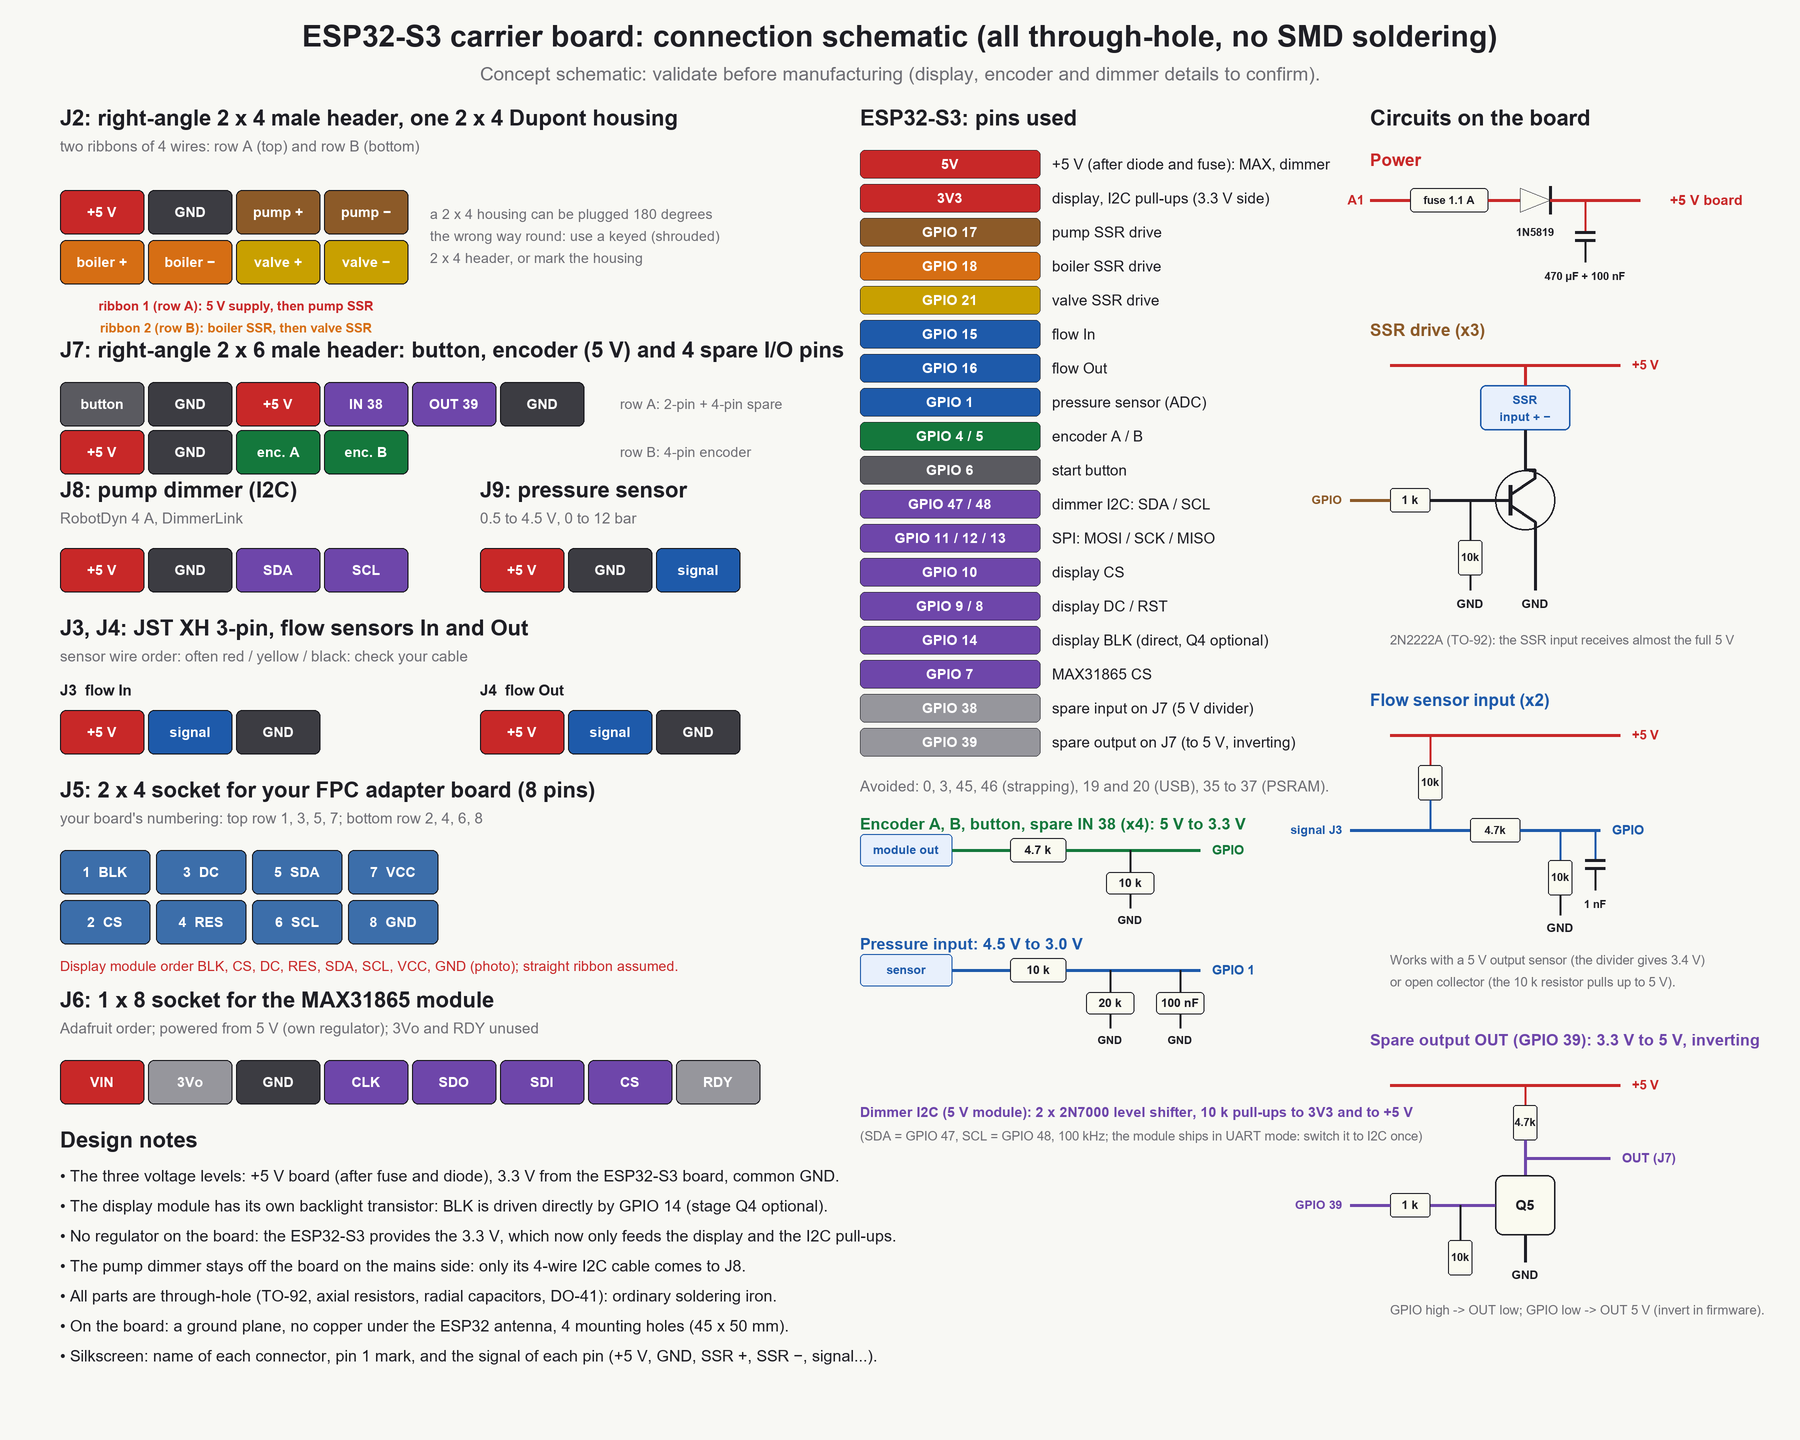
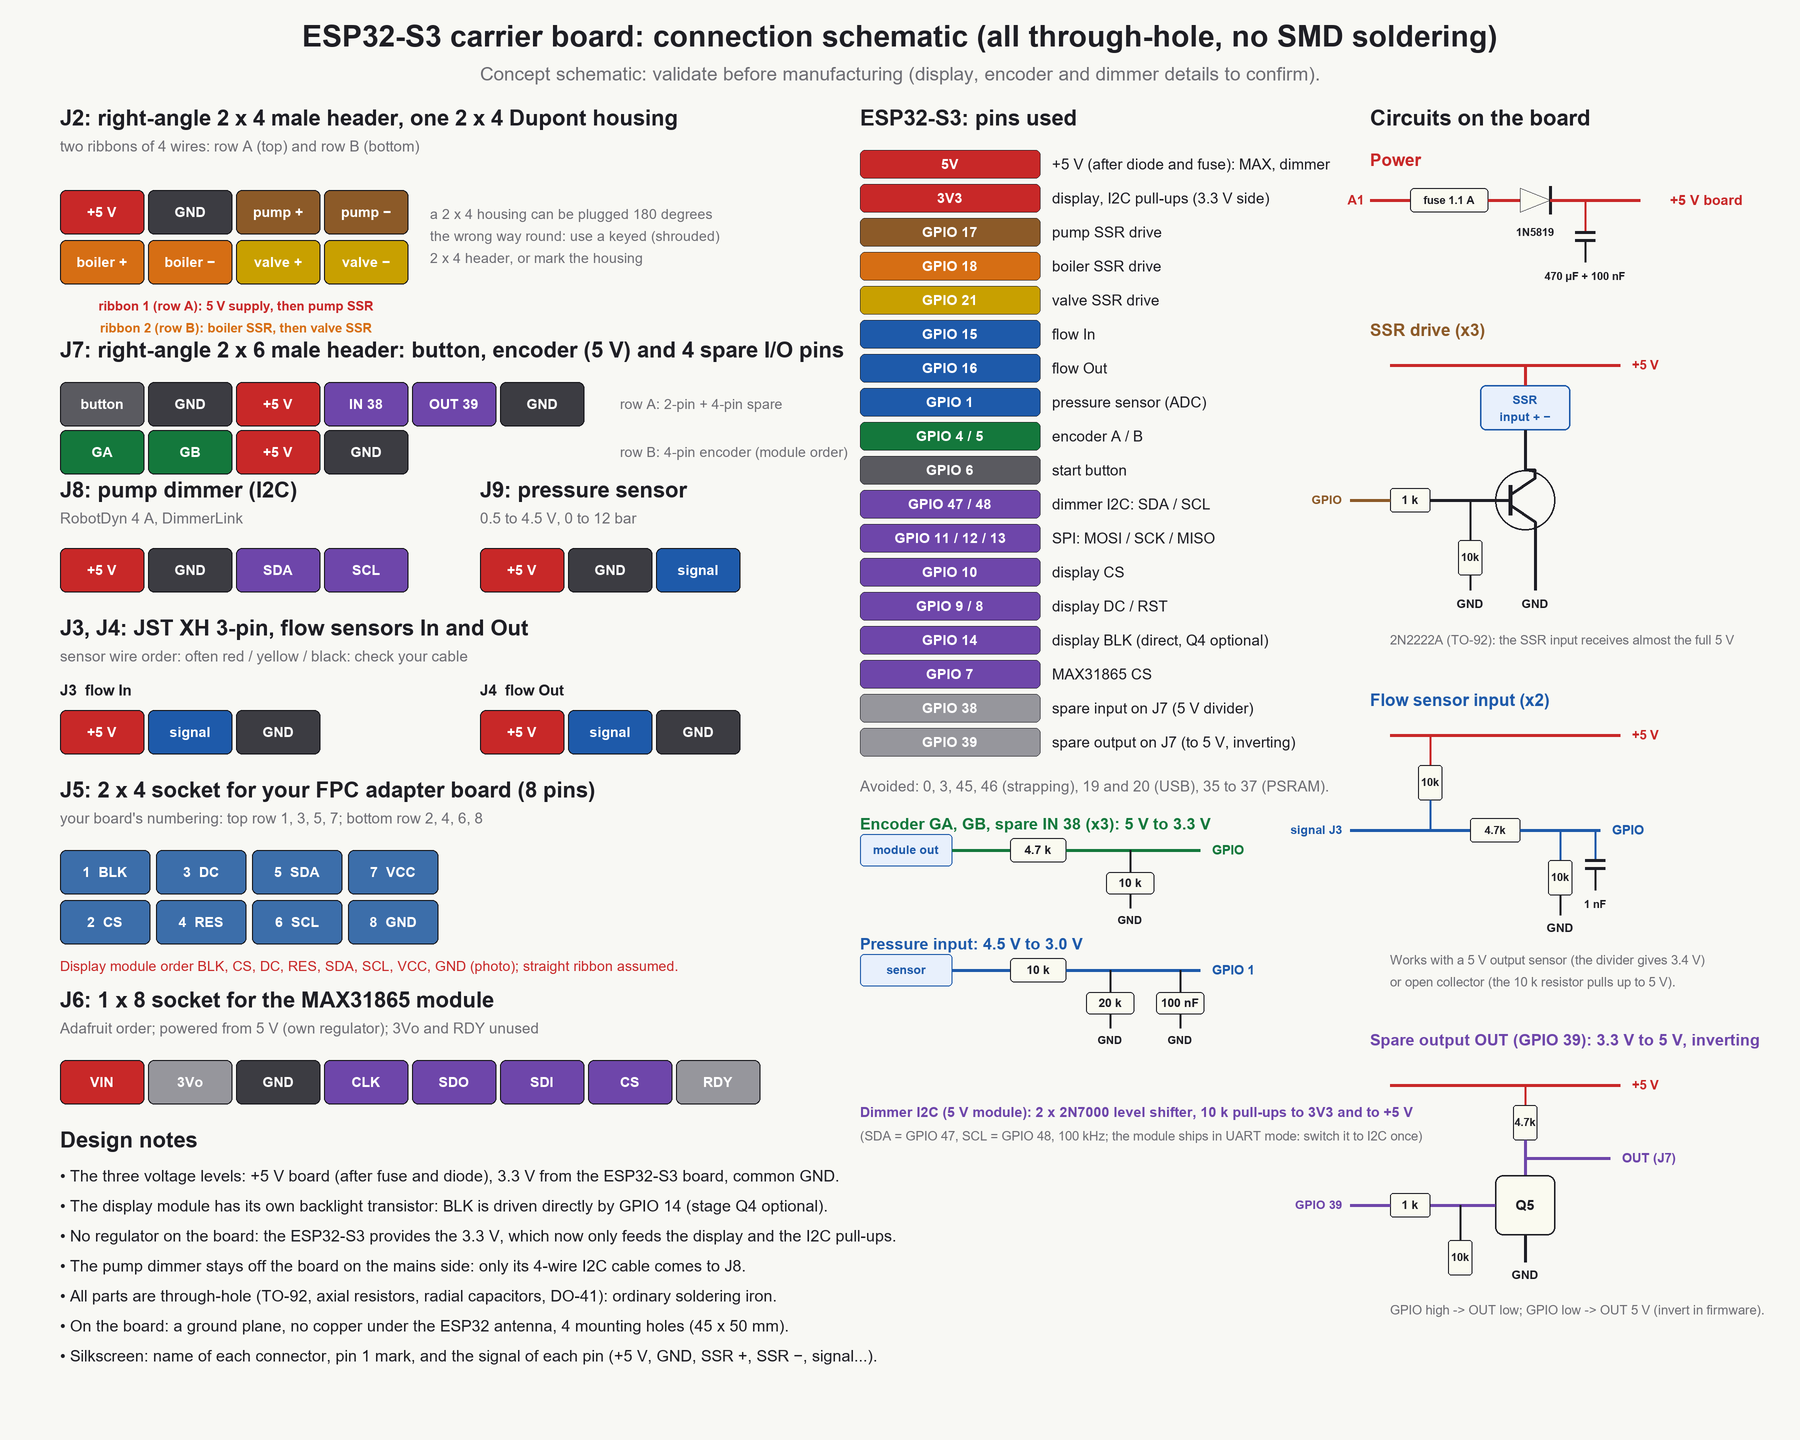
Encoder in the CJMCU-111 module order (GA, GB, VCC, GND), push carried by GA; start button needs no divider

Changed region(s): [[0.0311, 0.2812, 0.2489, 0.3438], [0.5289, 0.5625, 0.6844, 0.5938]]

diff --git a/tools/board_schematic.py b/tools/board_schematic.py
@@ -50,13 +50,13 @@ T(x0 + 370, 258, "2 x 4 header, or mark the housing", F(14), GRY, 'lm')
 # ---- J7 : 2 x 6 (two stacked rows of housings)
 head(60, 350, "J7: right-angle 2 x 6 male header: button, encoder (5 V) and 4 spare I/O pins")
 j7a = [("button", (90, 90, 96)), ("GND", DK), ("+5 V", RED), ("IN 38", VIO), ("OUT 39", VIO), ("GND", DK)]
-j7b = [("+5 V", RED), ("GND", DK), ("enc. A", GRN), ("enc. B", GRN)]
+j7b = [("GA", GRN), ("GB", GRN), ("+5 V", RED), ("GND", DK)]
 for i, (lab, col) in enumerate(j7a):
     pin(60 + i * 88, 382, lab, col, 14)
 for i, (lab, col) in enumerate(j7b):
     pin(60 + i * 88, 430, lab, col, 14)
 T(620, 404, "row A: 2-pin + 4-pin spare", F(14), GRY, 'lm')
-T(620, 452, "row B: 4-pin encoder", F(14), GRY, 'lm')
+T(620, 452, "row B: 4-pin encoder (module order)", F(14), GRY, 'lm')
 
 # ---- J8 / J9
 head(60, 490, "J8: pump dimmer (I2C)", "RobotDyn 4 A, DimmerLink")
@@ -125,7 +125,7 @@ def chain(x, y, title, src, res, end, shunts, col):
         L([(x + sx, y), (x + sx, y)], col, 2)
         shunt(x + sx, y, lab)
 cy = 850
-chain(gx, cy, "Encoder A, B, button, spare IN 38 (x4): 5 V to 3.3 V", "module out", "4.7 k", "GPIO", [(270, "10 k")], GRN)
+chain(gx, cy, "Encoder GA, GB, spare IN 38 (x3): 5 V to 3.3 V", "module out", "4.7 k", "GPIO", [(270, "10 k")], GRN)
 chain(gx, cy + 120, "Pressure input: 4.5 V to 3.0 V", "sensor", "10 k", "GPIO 1", [(250, "20 k"), (320, "100 nF")], BLU)
 T(gx, cy + 262, "Dimmer I2C (5 V module): 2 x 2N7000 level shifter, 10 k pull-ups to 3V3 and to +5 V", F(14, True), VIO, 'lm')
 T(gx, cy + 286, "(SDA = GPIO 47, SCL = GPIO 48, 100 kHz; the module ships in UART mode: switch it to I2C once)", F(13), GRY, 'lm')

diff --git a/tools/board_placement.py b/tools/board_placement.py
@@ -184,7 +184,7 @@ rect(d, X(22.4) - 1.4 * K, Y(61.0) - 1.4 * K, X(22.4 + 5 * 2.54) + 1.4 * K, Y(63
 silk(31.0, 58.4, "J7  button / encoder / spare I/O", 9)
 for c_, lab in enumerate(["BT", "GND", "5V", "IN", "OUT", "GND"]):
     text(d, X(22.4 + c_ * 2.54), Y(61.0) - 1.9 * K, lab, 7, SILK, True)
-for c_, lab in enumerate(["5V", "GND", "A", "B"]):
+for c_, lab in enumerate(["GA", "GB", "5V", "GND"]):
     text(d, X(22.4 + c_ * 2.54), Y(63.54) + 1.9 * K, lab, 7, SILK, True)
 # J8: 1 x 4 vertical header, dimmer (I2C), in the corridor between the FPC board and the MAX31865; J9: 1 x 3, pressure sensor
 for i, lab in enumerate(["5V", "GND", "SDA", "SCL"]):
@@ -277,7 +277,7 @@ comp = [
     "J7  right-angle 2 x 6 header: button, encoder (5 V), 4 spare I/O pins",
     "J8  1 x 4: pump dimmer (I2C)  ·  J9  1 x 3: pressure sensor",
     "Q1 to Q3  SSR drive ; Q4  backlight (optional)",
-    "R1 to R4  1 kΩ  ·  R5 to R8  10 kΩ  ·  R9, R10, R17, R18  5 V input dividers",
+    "R1 to R4  1 kΩ  ·  R5 to R8  10 kΩ  ·  R9, R10, R17, R18  5 V input dividers (GA, GB, IN)",
     "Q5, R19 to R21  spare output stage (3.3 V to 5 V)",
     "I2C level shifter: 2 x 2N7000 + 4 x 10 kΩ (to place at routing)",
     "R11 to R16  flow sensor inputs  ·  C3, C4  1 nF",

diff --git a/docs/carrier_spec.md b/docs/carrier_spec.md
@@ -42,9 +42,9 @@ All **through-hole** parts (no SMD soldering). Related files: `images/board_plac
 | | 1 | 2 | 3 | 4 | 5 | 6 |
 |---|---|---|---|---|---|---|
 | Row A (upper) | button (GPIO 6) | GND | **+5 V** | **IN (GPIO 38)** | **OUT (GPIO 39)** | **GND** |
-| Row B (lower) | +5 V | GND | enc. A (GPIO 4) | enc. B (GPIO 5) | not used | not used |
+| Row B (lower) | GA (GPIO 4) | GB (GPIO 5) | +5 V | GND | not used | not used |
 
-Housings: row A = 2-pin (button) + 4-pin (**spare I/O: +5 V, IN, OUT, GND**); row B = 4-pin (encoder: +5 V, GND, A, B). The wire order must follow **your** encoder module (to be checked). Stacking the spare pins above the encoder, rather than extending the row to the right, keeps J7 only about 17 mm wide, so it does not run into J3 / J4.
+Housings: row A = 2-pin (button) + 4-pin (**spare I/O: +5 V, IN, OUT, GND**); row B = 4-pin (CJMCU-111 encoder, in the module's own order: GA, GB, VCC = +5 V, GND). The CJMCU-111 module has only these four pins (photo): GA, GB, VCC, GND; its push button is carried by the GA line, so there is no separate push wire (the firmware's encoder library recognises the push from the GA edges, with the 0 Ω hack on the module's push resistor). Stacking the spare pins above the encoder, rather than extending the row to the right, keeps J7 only about 17 mm wide, so it does not run into J3 / J4.
 
 **Spare IN (GPIO 38), 5 V to 3.3 V:** 4.7 kΩ in series (R17) to the GPIO and 10 kΩ from the GPIO to GND (R18): a 5 V signal becomes 3.4 V. Input only. For a 3.3 V source, replace R17 by a 0 Ω link and leave R18 out (the divider would give only 2.2 V, below the input-high threshold of about 2.5 V).
 
@@ -53,7 +53,7 @@ Housings: row A = 2-pin (button) + 4-pin (**spare I/O: +5 V, IN, OUT, GND**); ro
 The two GPIO numbers (38 and 39) are provisional free GPIOs of the ESP32-S3 chip (neither strapping, PSRAM, flash nor USB); check them against the real pin table of your board, which does not necessarily expose every GPIO of the chip.
 
 ### 5 V inputs protection (encoder)
-The ESP32-S3 only accepts 3.3 V. Since the encoder module is powered from 5 V, its outputs (A, B, button) can reach 5 V if the module has pull-ups to 5 V. Each signal (A, B, button and the spare GPIO 38) therefore goes through a divider: 4.7 kΩ in series to the GPIO, then 10 kΩ from the GPIO to GND (5 V becomes 3.4 V). The 10 kΩ pull-ups to 3.3 V (R9, R10) are then removed. **To check:** if your module is a bare encoder without pull-up resistors, 10 kΩ pull-ups to 5 V are needed (provide optional footprints).
+The ESP32-S3 only accepts 3.3 V. Since the encoder module is powered from 5 V, its outputs (A, B, button) can reach 5 V if the module has pull-ups to 5 V. GA, GB and the spare GPIO 38 therefore each go through a divider: 4.7 kΩ in series to the GPIO, then 10 kΩ from the GPIO to GND (5 V becomes 3.4 V). The start button (J7 row A, "button") is a dry contact to GND: it needs no divider, only the ESP32 internal pull-up and 100 nF against bounce. **To check:** if your module is a bare encoder without pull-up resistors, 10 kΩ pull-ups to 5 V are needed (provide optional footprints).
 
 ### J8 (pump dimmer, 1 x 4, in the module's order)
 | 1 | 2 | 3 | 4 |
@@ -147,4 +147,4 @@ Silkscreen read on the photo, left column from the USB-C end: GND, 5V, G48, BOOT
 9. USB-C opening in the left wall (y 9 to 19 mm) and the USB cable bend outside the box.
 10. Display ribbon: length, thickness and pin-1 orientation of your FPC adapter board; the column x 7 to 18 mm in front of it must stay free of tall parts.
 10. MAX31865 at 5 V: high level of SDO (3.3 V or 5 V).
-11. Rotary knob (CJMCU-111): a library note says the push button can share the **Ga line through a 3 kΩ resistor** (pressing pulls Ga low through that resistor, which can be told apart from a rotation by an analog read of Ga). Confirm whether your module has a separate push pin (design assumption: yes, GPIO 6). If the push is on Ga, read Ga as an analog level: GPIO 4 is ADC-capable and the 4.7 kΩ / 10 kΩ divider keeps the information.
+11. Rotary knob (CJMCU-111, photo: pins GA, GB, VCC, GND): the push is on the GA line through a 3 kΩ resistor; the firmware's encoder library handles it from the GA / GB edges (as on the Nano). Check the module's pull-ups on GA and GB (value, to VCC). Optional alternative from the library note: bridge the 3 kΩ with 330 Ω and read GA as an analog level (GPIO 4 is ADC-capable and the 4.7 kΩ / 10 kΩ divider keeps the information).
